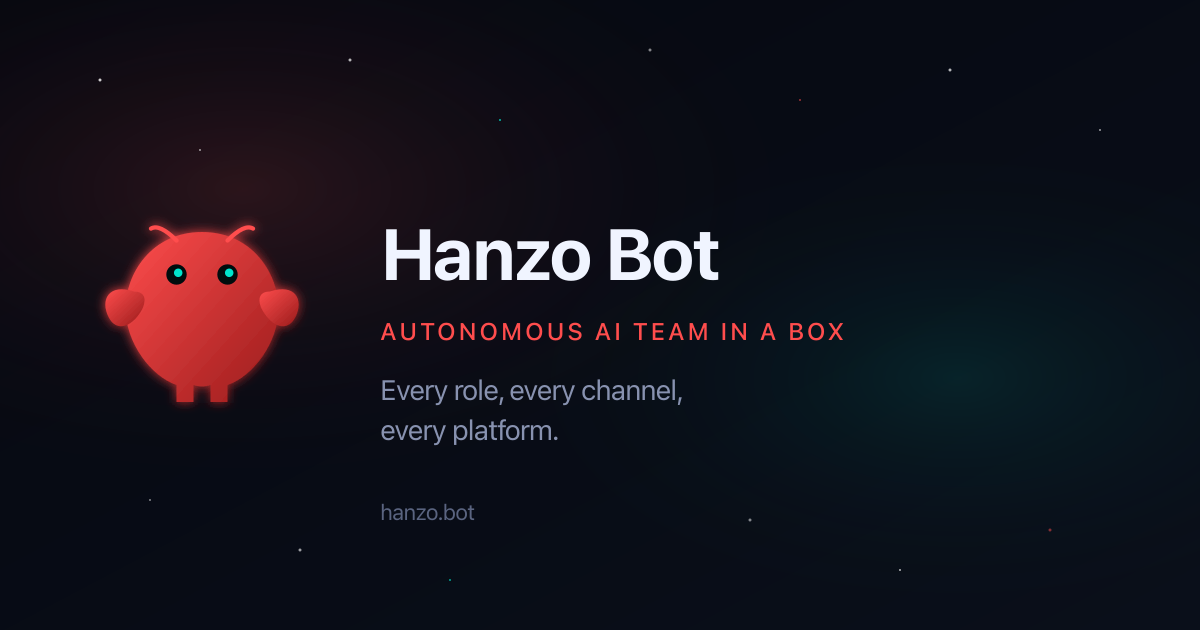
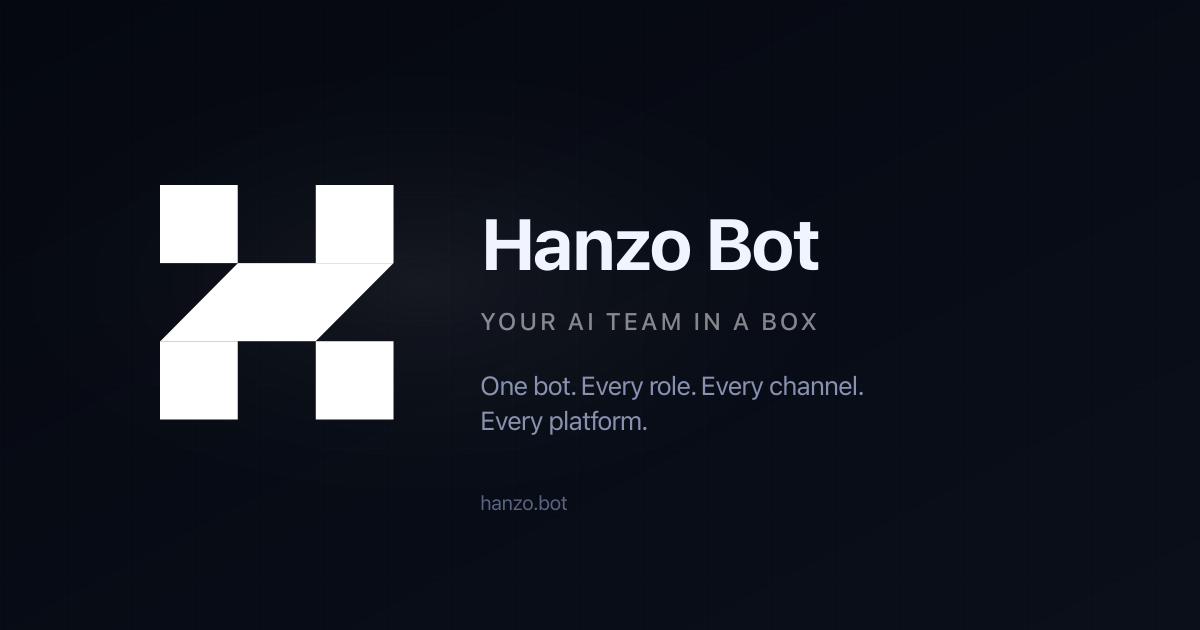
fix: update OG image, chat widget gateway URL, and wire Geist fonts
- Replace red lobster OG image with clean Hanzo H logo mark
- Change embed.js default WebSocket URL from wss://bot.hanzo.ai to
  wss://gw.hanzo.bot so the chat widget actually connects
- Set --default-font-family to Geist Sans via CSS variable so all
  Tailwind text uses the loaded Google font
- Update --default-mono-font-family fallbacks for consistency
- Use Geist font-family in OG image SVG text elements

Changed region(s): [[0.0617, 0.2111, 0.7092, 0.7238], [0.3083, 0.7841, 0.4625, 0.8444]]

diff --git a/public/embed.js b/public/embed.js
@@ -7,7 +7,7 @@
  *
  * Options (via data attributes on the script tag):
  *   data-token      - Bot gateway auth token (required for remote)
- *   data-url        - Gateway WebSocket URL (default: wss://bot.hanzo.ai)
+ *   data-url        - Gateway WebSocket URL (default: wss://gw.hanzo.bot)
  *   data-agent      - Default agent ID (default: vi)
  *   data-position   - Widget position: bottom-right | bottom-left (default: bottom-right)
  *   data-theme      - Theme: dark | light (default: dark)
@@ -20,7 +20,7 @@
   const SCRIPT = document.currentScript;
   const CFG = {
     token: SCRIPT?.getAttribute('data-token') || '',
-    url: SCRIPT?.getAttribute('data-url') || 'wss://bot.hanzo.ai',
+    url: SCRIPT?.getAttribute('data-url') || 'wss://gw.hanzo.bot',
     agent: SCRIPT?.getAttribute('data-agent') || 'vi',
     position: SCRIPT?.getAttribute('data-position') || 'bottom-right',
     theme: SCRIPT?.getAttribute('data-theme') || 'dark',
@@ -40,7 +40,7 @@
       --hcw-accent-hover: #e03e3e;
       --hcw-user-bg: #fd4444;
       --hcw-bot-bg: ${CFG.theme === 'light' ? '#e8e8e8' : '#1e293b'};
-      --hcw-font: 'Geist', system-ui, -apple-system, sans-serif;
+      --hcw-font: var(--font-sans, 'Geist'), system-ui, -apple-system, sans-serif;
       position: fixed;
       ${CFG.position === 'bottom-left' ? 'left: 20px;' : 'right: 20px;'}
       bottom: 20px;

diff --git a/app/global.css b/app/global.css
@@ -27,7 +27,8 @@
 }
 
 @theme inline {
-  --default-mono-font-family: var(--font-mono);
+  --default-font-family: var(--font-sans), system-ui, -apple-system, sans-serif;
+  --default-mono-font-family: var(--font-mono), ui-monospace, monospace;
   --animate-pulse-fast: pulse 1s cubic-bezier(0.4, 0, 0.6, 1) infinite;
 
   @keyframes pulse {
